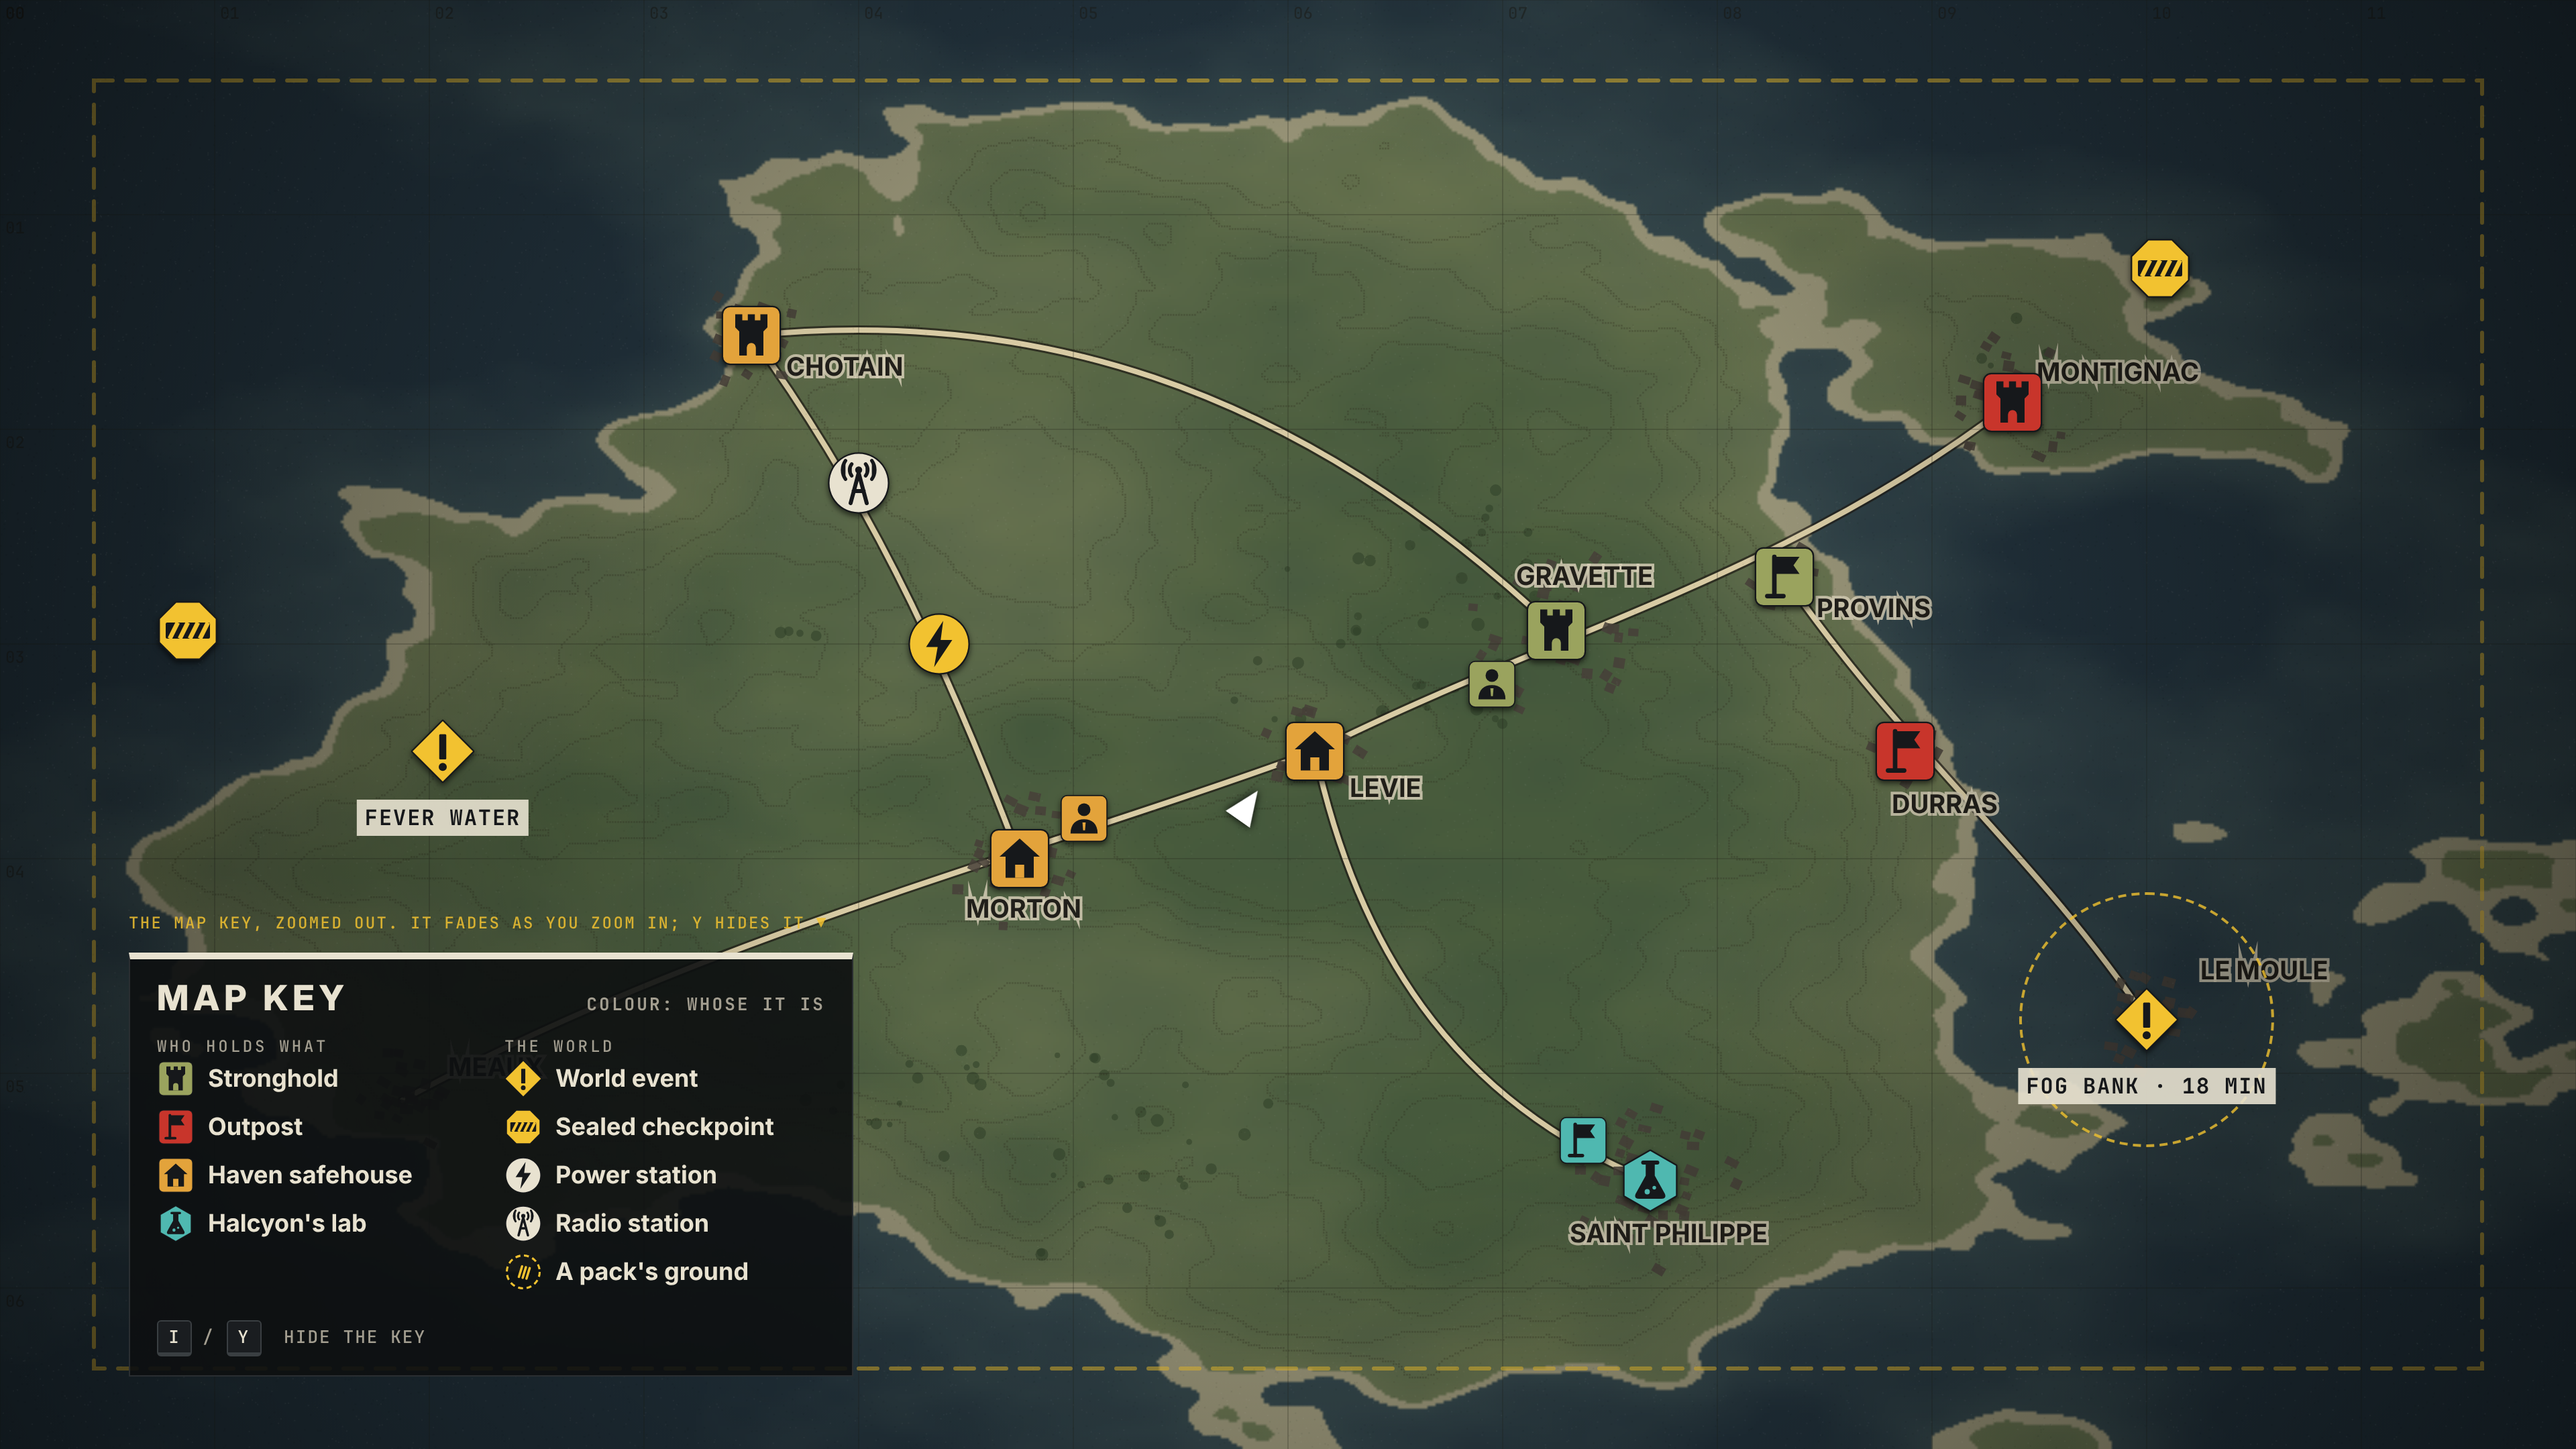
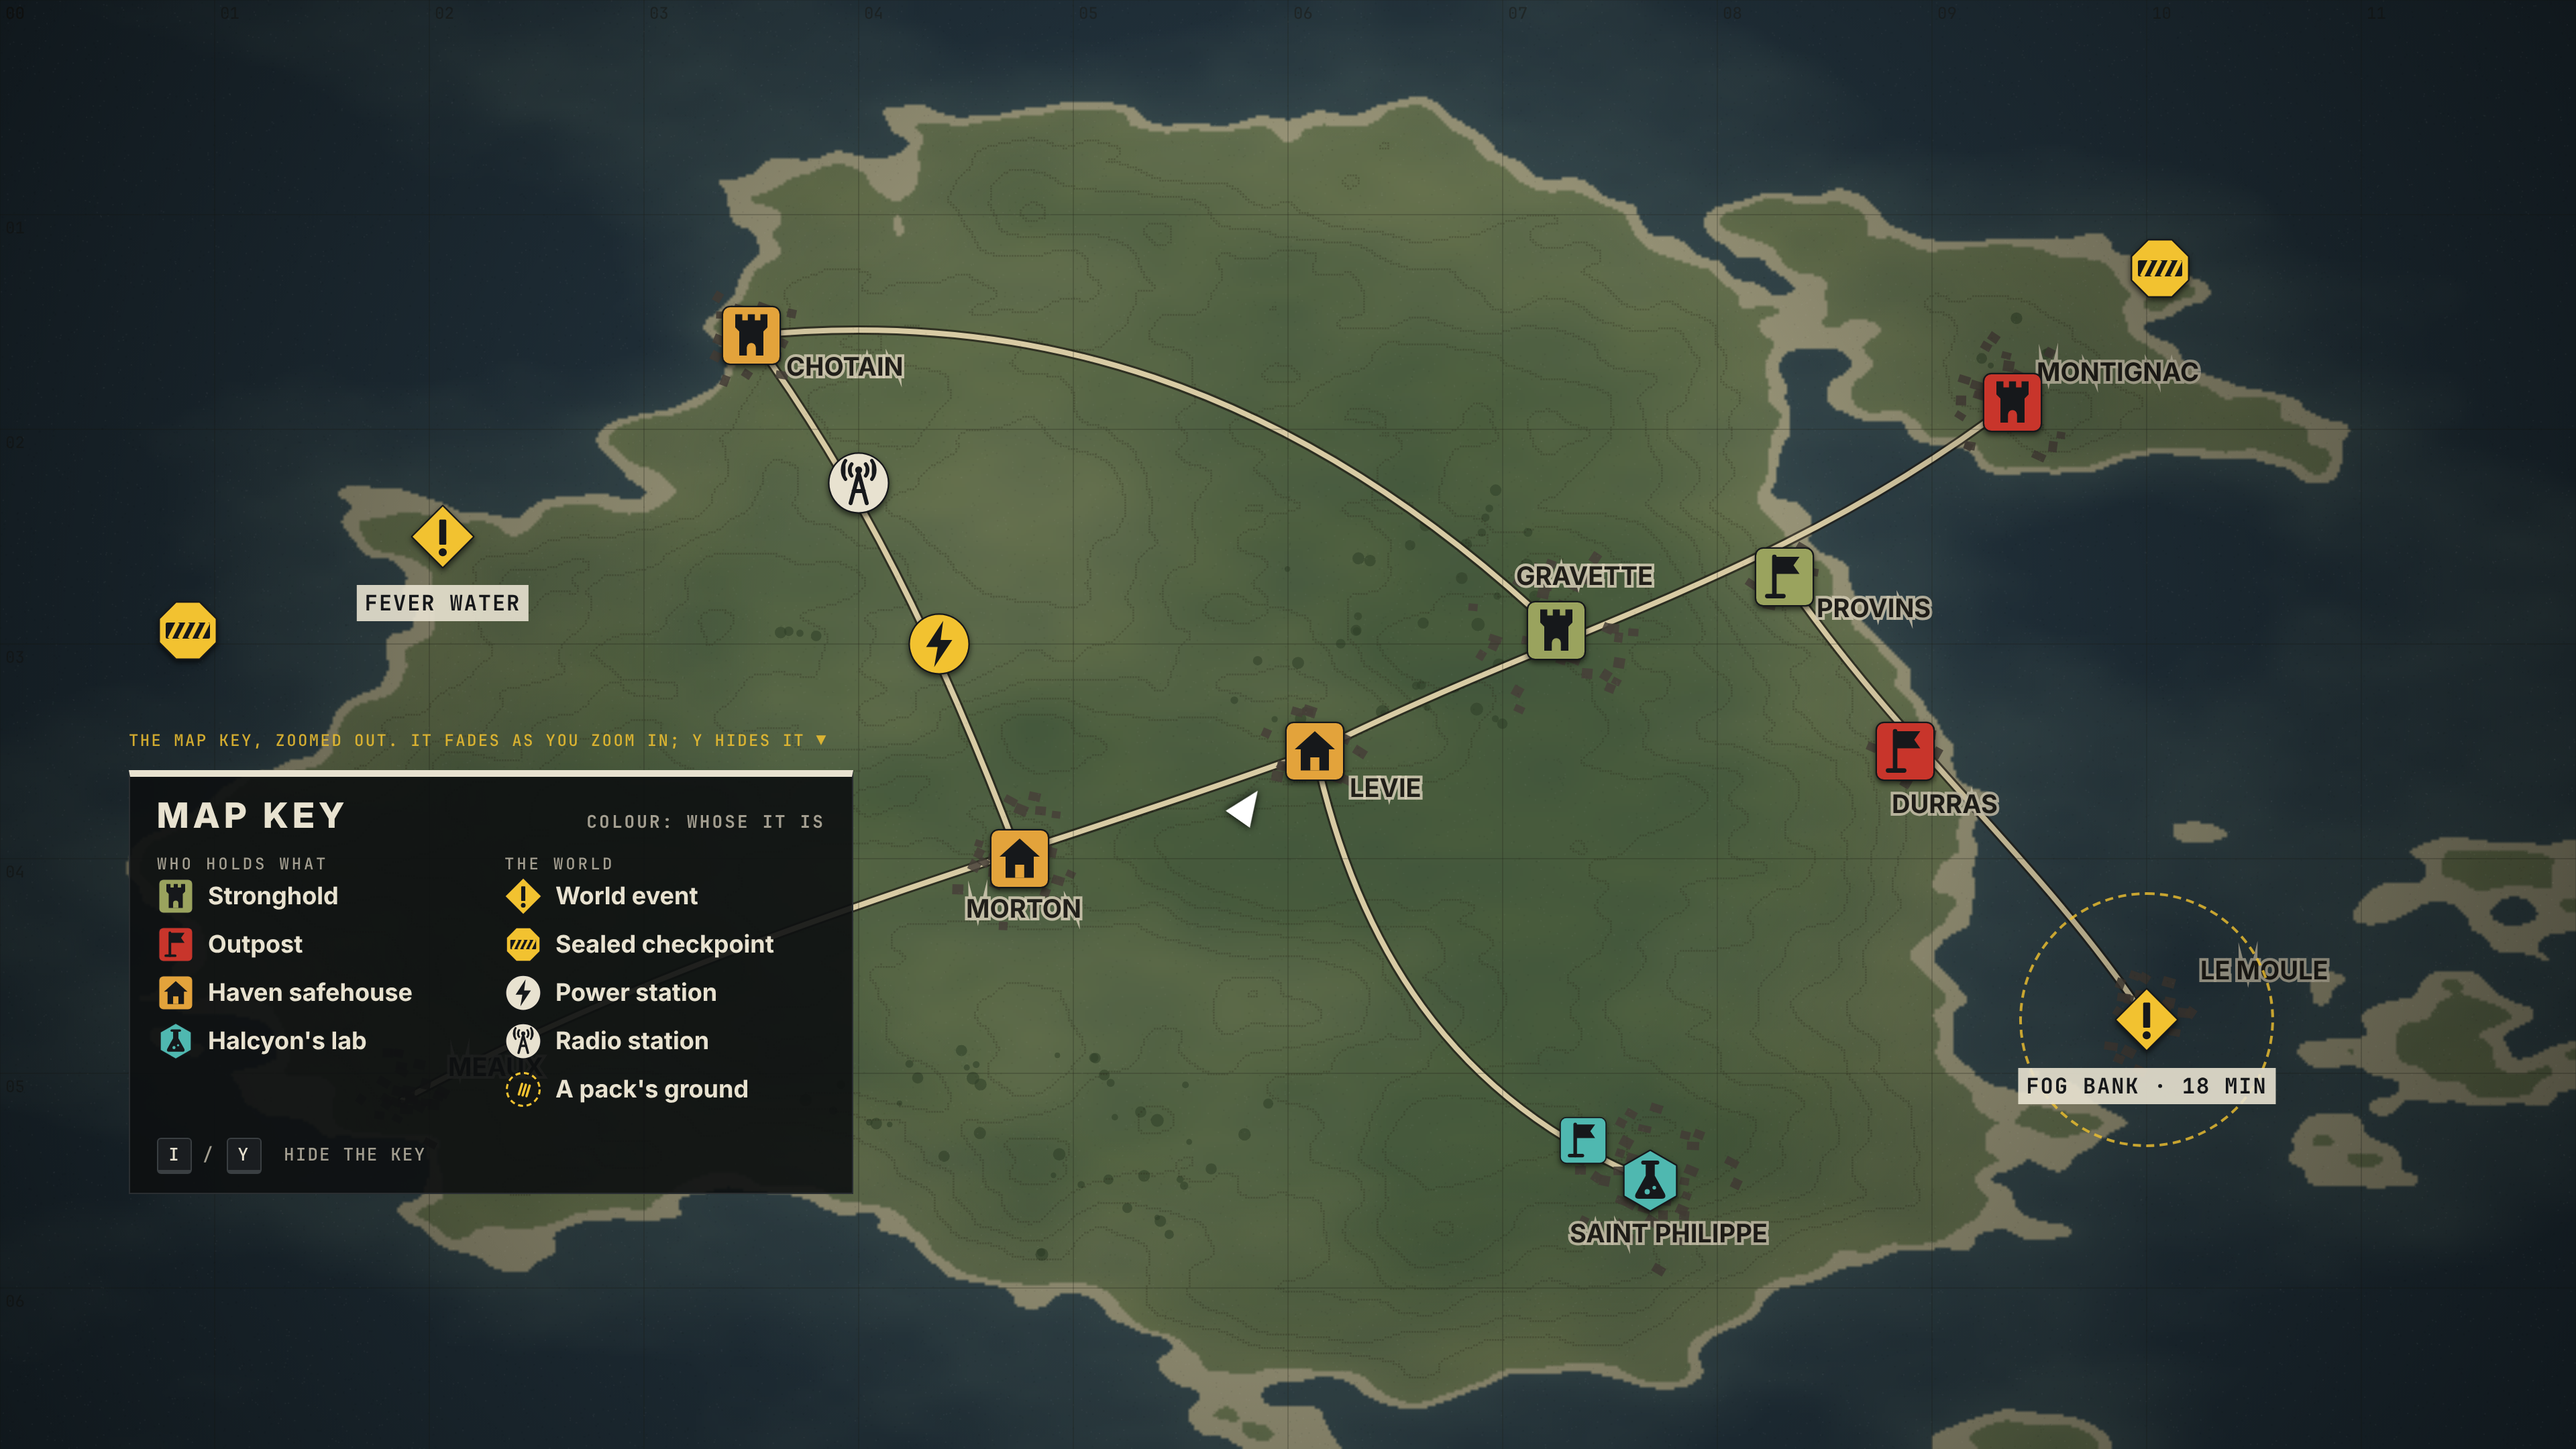
Map key moves up to (96, -190), clear of vanilla's key hints and scale bar; mockups lose the quartermaster markers, the drawn Perimeter and the journal's Show on map
Claude-Session: https://claude.ai/code/session_01WEoeeFco7mrejNFdVvPPxW

diff --git a/UI/Mockups/map_legend.html b/UI/Mockups/map_legend.html
@@ -14,7 +14,7 @@
   .ring { position: absolute; border: 2px dashed rgba(242,194,48,.8); border-radius: 50%; transform: translate(-50%, -50%); }
   .tagline { position: absolute; font: 700 16px 'JetBrains Mono'; color: #15171a; background: rgba(232,226,208,.9); padding: 3px 6px; transform: translate(-50%, 0); white-space: nowrap; letter-spacing: .06em; }
   .mk.plated, .mk { z-index: 1; }
-  .mapkey { position: absolute; left: 96px; bottom: 54px; width: 540px; height: 316px; background: var(--panel); border: 1px solid var(--line); border-top: 5px solid var(--bone); padding: 14px 20px; }
+  .mapkey { position: absolute; left: 96px; bottom: 190px; width: 540px; height: 316px; background: var(--panel); border: 1px solid var(--line); border-top: 5px solid var(--bone); padding: 14px 20px; }
   .mapkey .top { display: flex; justify-content: space-between; align-items: baseline; }
   .mapkey h2 { margin: 0; font: 800 26px 'Inter Display', Inter; letter-spacing: .14em; text-transform: uppercase; }
   .mapkey .sub { font: 700 13px 'JetBrains Mono'; color: var(--dim); letter-spacing: .12em; }
@@ -41,11 +41,9 @@
 <div class="layer">
   <!-- places -->
   <i class="mk plated" data-i="marker_safehouse" style="left:760px;top:640px;color:var(--haven)"></i>
-  <i class="mk sm plated" data-i="marker_quartermaster" style="left:808px;top:610px;color:var(--haven)"></i>
   <i class="mk plated" data-i="marker_safehouse" style="left:980px;top:560px;color:var(--haven)"></i>
   <i class="mk plated" data-i="marker_stronghold" style="left:560px;top:250px;color:var(--haven)"></i>
   <i class="mk plated" data-i="marker_stronghold" style="left:1160px;top:470px;color:var(--bastion)"></i>
-  <i class="mk sm plated" data-i="marker_quartermaster" style="left:1112px;top:510px;color:var(--bastion)"></i>
   <i class="mk plated" data-i="marker_stronghold" style="left:1500px;top:300px;color:var(--redhand)"></i>
   <i class="mk plated" data-i="marker_outpost" style="left:1330px;top:430px;color:var(--bastion)"></i>
   <i class="mk plated" data-i="marker_outpost" style="left:1420px;top:560px;color:var(--redhand)"></i>
@@ -59,12 +57,12 @@
   <div class="ring" style="left:1600px;top:760px;width:190px;height:190px"></div>
   <i class="mk plated" data-i="marker_event" style="left:1600px;top:760px;color:var(--hazard)"></i>
   <div class="tagline" style="left:1600px;top:796px">FOG BANK · 18 MIN</div>
-  <i class="mk plated" data-i="marker_event" style="left:330px;top:560px;color:var(--hazard)"></i>
-  <div class="tagline" style="left:330px;top:596px">FEVER WATER</div>
+  <i class="mk plated" data-i="marker_event" style="left:330px;top:400px;color:var(--hazard)"></i>
+  <div class="tagline" style="left:330px;top:436px">FEVER WATER</div>
   <div class="you" style="left:930px;top:600px"></div>
 </div></div>
 <div class="layer">
-  <div class="callout" style="left:96px;bottom:384px">THE MAP KEY, ZOOMED OUT. IT FADES AS YOU ZOOM IN; Y HIDES IT ▼</div>
+  <div class="callout" style="left:96px;bottom:520px">THE MAP KEY, ZOOMED OUT. IT FADES AS YOU ZOOM IN; Y HIDES IT ▼</div>
   <div class="mapkey">
     <div class="top"><h2>Map key</h2><span class="sub">COLOUR: WHOSE IT IS</span></div>
     <div class="cols">

diff --git a/UI/Mockups/common/zone.js b/UI/Mockups/common/zone.js
@@ -198,9 +198,6 @@
     ctx.strokeStyle = 'rgba(30,30,24,.22)'; ctx.lineWidth = 1; ctx.font = '500 12px JetBrains Mono'; ctx.fillStyle = 'rgba(30,30,24,.55)';
     for (let x = 0, k = 0; x <= W; x += 160, k++) { ctx.beginPath(); ctx.moveTo(x, 0); ctx.lineTo(x, H); ctx.stroke(); ctx.fillText(String(k).padStart(2, '0'), x + 4, 14); }
     for (let y = 0, k = 0; y <= H; y += 160, k++) { ctx.beginPath(); ctx.moveTo(0, y); ctx.lineTo(W, y); ctx.stroke(); ctx.fillText(String(k).padStart(2, '0'), 4, y + 14); }
-    // the Perimeter: hatched band where land meets the map edge
-    ctx.strokeStyle = 'rgba(242,194,48,.55)'; ctx.setLineDash([14, 10]); ctx.lineWidth = 3;
-    ctx.strokeRect(70, 60, W - 140, H - 120); ctx.setLineDash([]);
     finish(ctx, r, 0.03);
   }
 

diff --git a/UI/Mockups/journal.html b/UI/Mockups/journal.html
@@ -107,7 +107,7 @@
     </div>
   </div>
 
-  <div class="menu-foot"><span><span class="key">ESC</span>Close</span><span><span class="key">Q</span><span class="key">E</span>Tabs</span><span><span class="key">M</span>Show on map</span><span style="margin-left:auto">Directions are rough on purpose. Nobody here has GPS.</span></div>
+  <div class="menu-foot"><span><span class="key">ESC</span>Close</span><span><span class="key">Q</span><span class="key">E</span>Tabs</span><span style="margin-left:auto">Directions are rough on purpose. Nobody here has GPS.</span></div>
 </div>
 </body>
 </html>

diff --git a/docs/UI.md b/docs/UI.md
@@ -475,7 +475,9 @@ contracts are never on it. With **UI > Map icon layout** set, the vanilla text m
 events and the lab are off; without it, the layer does nothing and those markers stay.
 
 **The map key** sits on the map, not in the notebook: a compact legend in the bottom-left corner,
-inside the safe area (`RZ_MapLegend.layout`, **UI > Map legend layout**; it needs the icon layer).
+inside the safe area and 190 px up, above vanilla's own bottom-left widgets (the map's key hints and
+the scale bar, about the first 330 px across and the bottom 120 px) (`RZ_MapLegend.layout`, **UI > Map
+legend layout**; it needs the icon layer).
 It names what the icons mean in two columns, *Who holds what* (stronghold, outpost, Haven
 safehouse, Halcyon's lab) and *The world* (world event, sealed checkpoint, power station, radio
 station, a pack's ground), each with its icon in the colour the map draws it, and says the colour

diff --git a/UI/LAYOUTS.md b/UI/LAYOUTS.md
@@ -644,7 +644,7 @@ event, the checkpoint and the range ring hazard yellow, the stations bone), and 
 with the zoom (`SetOpacity`; hidden at 0). Positions are from the root's top left.
 
 ```
-Frame MapLegend (root, 540 × 316, anchor bottom-left, offset (96, -54): inside the safe area)
+Frame MapLegend (root, 540 × 316, anchor bottom-left, offset (96, -190): above vanilla's key hints and scale bar)
 ├─ Image  (LegendBg)       #121416 at 90%
 ├─ Image  (LegendAccent)   full width × 5, top edge, bone
 ├─ Panel  (LegendLine)     border #2A2E31
